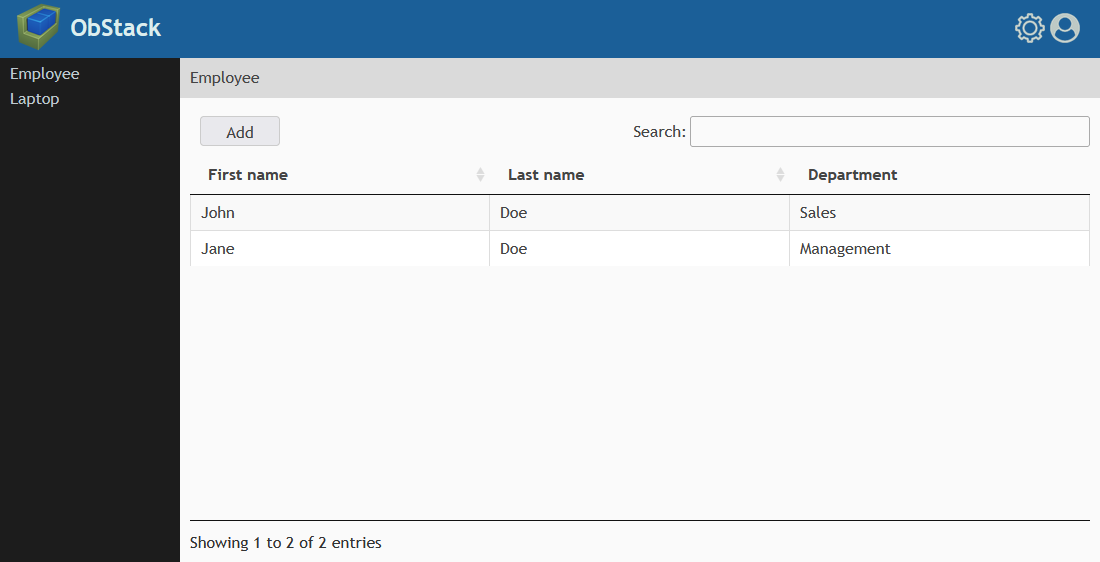
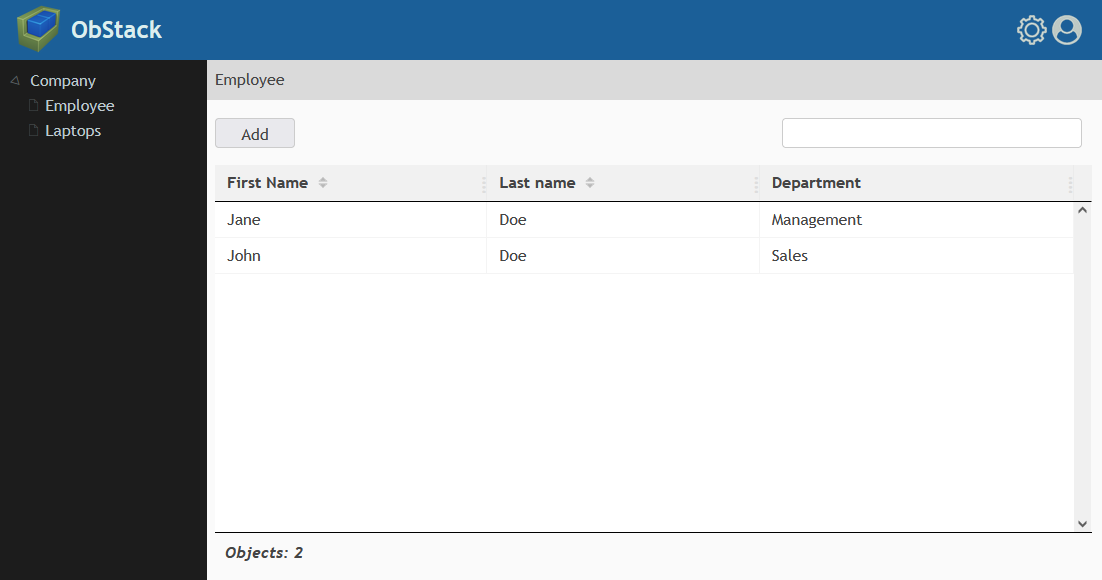
obstack-v1.2.0-b240312

diff --git a/webapp/js/mod_objconf.js b/webapp/js/mod_objconf.js
@@ -276,7 +276,7 @@ mod['objconf'] = {
             obAlert('<b>WARNING!:</b><br>Deleting object type. This can NOT be undone, are you really really sure?', { Ok:function(){
               $.when( api('delete',`objecttype/${id}`) ).always(function() {
                 change.reset();
-                mod.objconf.list();
+                location.reload(true);
               });
             }, Cancel:null });
           }, Cancel:null });
@@ -347,7 +347,7 @@ mod['objconf'] = {
         $.when(
           api('post',`objecttype/${api_objecttype.id}/acl`, aclsave)
         ).always(function() {
-          mod.objconf.list();
+          location.reload(true);
         });
       });
     }
@@ -355,7 +355,9 @@ mod['objconf'] = {
       $.when(
         api('put',`objecttype/${id}`, dtsave),
         api('put',`objecttype/${id}/acl`, aclsave)
-      ).always(function() { location.reload(true); });
+      ).always(function() {
+        location.reload(true);
+      });
     }
 
   },

diff --git a/webapp/js/obstack.js b/webapp/js/obstack.js
@@ -177,7 +177,7 @@ $(document).ready( function () {
     basebq = getCookie('obstack_basebq');
   })
   .fail(function() {
-    // obAlert('Error in config file', null);
+    obAlert('Error in config file', null);
   });
 });
 
@@ -264,8 +264,8 @@ function getObject(list, key, value) {
 
 // Get cookie
 function getCookie(name) {
-  var re = new RegExp(name + "=([^;]+)");
-  var value = re.exec(document.cookie);
+  let re = new RegExp(name + "=([^;]+)");
+  let value = re.exec(document.cookie);
   return (value != null) ? decodeURIComponent(value[1]) : null;
 }
 
@@ -296,7 +296,7 @@ function setConfig(data) {
       title = 'ObStack - ' + value.value;
     }
     if (value.name == 'totp_default_enabled') {
-      cfg.settings.totp_default_enabled = (value.value == '1') ? true : false;
+      cfg.settings.totp_default_enabled = (value.value == '1');
     }
   });
 }

diff --git a/webapp/js/mod_obj.js b/webapp/js/mod_obj.js
@@ -426,7 +426,7 @@ mod['obj'] = {
           pwfield
             .on('focus', function() { pwfield.select(); })
             .on('keydown', function(event) {
-              if (event.ctrlKey == true && event.which == '67') {
+              if (event.ctrlKey && event.which == '67') {
                 return true;
               }
               else if (event.which == '27') {

diff --git a/webapp/js/mod_valuemap.js b/webapp/js/mod_valuemap.js
@@ -141,6 +141,9 @@
             change.reset();
             mod.valuemap.save(id, vmform_data, vallist.table());
           }
+          else {
+            obtabs.showtab('_obTab0');
+          }
         }),
         // -- Delete
         (id==null)?null:$('<input/>', { class:'btn', type:'submit', value:'Delete'  }).on('click', function() {

diff --git a/webapp/js/mod_conf.js b/webapp/js/mod_conf.js
@@ -241,7 +241,7 @@ mod['config'] = {
         if (map.depth >= 4) {
           error = 'Exceeds maximum depth (4)';
         }
-        row = navlist.addrow({
+        let row = navlist.addrow({
           id:map.id,
           parent:map.parent,
           name:map.name,

diff --git a/webapp/js/bsload.js b/webapp/js/bsload.js
@@ -8,7 +8,7 @@
 
 // Development options
 const debug = false;
-const build = '240228'
+const build = '240312'
 
 // Loading options
 const hthead = $('head');

diff --git a/webapp/inc/mod_objtype.php b/webapp/inc/mod_objtype.php
@@ -117,11 +117,12 @@ class mod_objtype {
     $dbq->select[] = 'DISTINCT ot.id AS id, ot.name AS name';
     if (!$_SESSION['sessman']['sa']) {
       $dbqin = $this->list2in($_SESSION['sessman']['groups'], 'smg');
-      if (count($dbqin->params) > 0) {
-        $dbq->join[] = 'LEFT JOIN objtype_acl oa ON oa.objtype = ot.id';
-        $dbq->filter[] = "oa.smgroup IN ($dbqin->marks) AND oa.read";
-        $dbq->params = array_merge($dbq->params, $dbqin->params);
+      if (count($dbqin->params) <= 0) {
+        $dbqin->marks = '';
       }
+      $dbq->join[] = 'LEFT JOIN objtype_acl oa ON oa.objtype = ot.id';
+      $dbq->filter[] = "oa.smgroup IN ($dbqin->marks) AND oa.read";
+      $dbq->params = array_merge($dbq->params, $dbqin->params);
     }
     if (in_array($this->display, [ 'map' ]) || in_array($this->format, [ 'aggr' ])) {
       $dbq->select[] = 'ot.map AS map';

diff --git a/webapp/inc/mod_conf.php b/webapp/inc/mod_conf.php
@@ -95,7 +95,7 @@ class mod_conf {
         $this->db->query('INSERT INTO setting_varchar (name, value) values (\'hky_ckey2\', :key)', [ ':key'=>$hky[2] ]);
       }
       $this->basepass = basebq::pstr(basebq::decode($hky[1])).basebq::pstr($sky);
-      return ($hky[2] == hash('sha384', $sky.$hky[1]));
+      return $hky[2] == hash('sha384', $sky.$hky[1]);
     }
   }
 

diff --git a/webapp/inc/mod_valuemap.php b/webapp/inc/mod_valuemap.php
@@ -31,8 +31,7 @@ class mod_valuemap {
       return $this->db->query('SELECT id, name FROM valuemap ORDER BY name', []);
     }
     else {
-      $result = $this->db->query('SELECT name, prio FROM valuemap WHERE id=:id', [':id'=>$id])[0];
-      return $result;
+      return $this->db->query('SELECT name, prio FROM valuemap WHERE id=:id', [':id'=>$id])[0];
     }
   }
 

diff --git a/docs/obstack-configuration.md b/docs/obstack-configuration.md
@@ -1,8 +1,11 @@
 # Configuration
 
 * [Base configuration](#base-configuration)
+* [Additional configuration](#additional-configuration)
 * [Configuring recoverable passwords](#configuring-recoverable-passwords)
 * [Configuring external authentication](#configuring-external-authentication)
+  * [Group matching (for LDAP/Radius)](#group-matching-for-ldapradius)
+  * [Radius attribute configuration](#radius-attribute-configuration)
 * [Upgrade notes](#upgrade-notes)
 
 ### Base configuration
@@ -15,14 +18,6 @@ Requirements:
   * Make sure the web server has read only access to this file
   * Default path: _/etc/obstack/obstack.conf_
 * Path to the configuration file is configured in _config.php_.
-
-Additional configurations can be managed under _Configuration_ > _Settings_. This includes:
-* The application display name
-* The CSS color scheme
-* Session timeout
-* Default OTP settings for new users
-* LDAP server configuration
-* Radius server configuration
 
 #### obstack.conf
 
@@ -38,6 +33,19 @@ db_connectionstring = pgsql:host=127.0.0.1;dbname=obstack;user=obstack;password=
 <?php
 $obstack_conf = '/etc/obstack/obstack.conf';
 ```
+
+### Additional configuration
+
+Additional configurations can be managed under _Configuration_:
+* Navigation
+  * Configure the sidebar navigation tree
+* Settings
+  * The application display name
+  * The CSS color scheme
+  * Session timeout
+  * Default OTP settings for new users
+  * LDAP server configuration
+  * Radius server configuration
 
 ### Configuring recoverable passwords
 
@@ -69,7 +77,7 @@ LDAP and/or Radius can be configured under _Configuration_ > _Settings_
 
 ![Global configuration](../img/os-cf2.png)
 
-#### Group matching
+#### Group matching (for LDAP/Radius)
 
 Groups can have an _ldapcn_ or _radiusattr_ value configured. Users authenticated by LDAP or Radius will automatically inherit a group's permissions when exactly matching these configurations.
 * LDAP: Matching the full DN, e.g.: _cn=mygroup-auth,cn=groups,cn=accounts,dc=example,dc=local_
@@ -107,7 +115,7 @@ update reply {
 
 The upgrade to _1.2.0_ from a lower version implements a significate change in the way ObStack handles configuration ([Base configuration](#base-configuration)). These changes can be easily handled following these steps:
 
-* Copy the config file to a location outside _public_html_, e.g. to (default) _/etc/obstack/obstack.conf_. Ensure the web server has read only access to this file.
+* Copy the new <a href="https://github.com/obstack-org/obstack/blob/main/webapp/obstack.conf" target="_blank">config file</a> to a location outside _public_html_, e.g. to (default) _/etc/obstack/obstack.conf_. Ensure the web server has read only access to this file.
 * Copy the content of db_connectionstring from _config.php_ to the new config file (see [obstack.conf](#obstackconf))
 * Configure _sc_encryptionkey_ as stated at [Configuring recoverable password](#configuring-recoverable-passwords)
 * Browse to your ObStack instance. Your current configuration will be copied to the database autmatically, and show a configuration error message

diff --git a/docs/api-config.md b/docs/api-config.md
@@ -1,0 +1,65 @@
+# API Reference - /config
+
+/config provides configuration of settings and the navigation tree
+
+* [/config](#config)
+
+### /config
+
+| Method | Description |
+|---|---|
+| GET | Returns the configuration based on the authorized state |
+| PUT | Update configuration (available for admin only) |
+
+Settings are read by name. Saving is only allowed for a predefined list of names. It is highly recommended to set configuration by the WebUI.
+
+GET:
+```javascript
+// Response
+{
+  "navigation": [
+    {
+      "id": "60b9ce5f-544c-4a88-9d3d-858066af286d",
+      "parent": null,
+      "name": "Company"
+    },
+    {..}
+  ],
+  "settings": [
+    {
+      "id": "cf6cac2f-b74b-49bd-aed0-82a6a38ddd24",
+      "name": "title",
+      "value": "MyCompany"
+    },
+    {..}
+  ]
+}
+```
+
+PUT:
+```javascript
+// Payload
+{
+  "navigation": [
+    {
+      "id": "60b9ce5f-544c-4a88-9d3d-858066af286d",
+      "parent": null,
+      "name": "Company"
+    },
+    {
+      "id": null,
+      "parent": "60b9ce5f-544c-4a88-9d3d-858066af286d",
+      "name": "NewSubMap"
+    },
+    {..}
+  ],
+  "settings": [
+    {
+      "id": "cf6cac2f-b74b-49bd-aed0-82a6a38ddd24",
+      "name": "title",
+      "value": "MyCompany"
+    },
+    {..}
+  ]
+}
+```

diff --git a/docs/api-objecttype.md b/docs/api-objecttype.md
@@ -117,9 +117,10 @@ Each object property has a type, that determines both the internal data type and
 | 4 | Value Map - Select / Dropdown |
 | 5 | Checkbox |
 | 6 | Textbox - Multi line input field |
-| 7 | Password |
 | 8 | Date |
 | 9 | Date and time |
+| 11 | Password (hash) |
+| 12 | Password (recoverable) |
 
 GET:
 ```javascript
